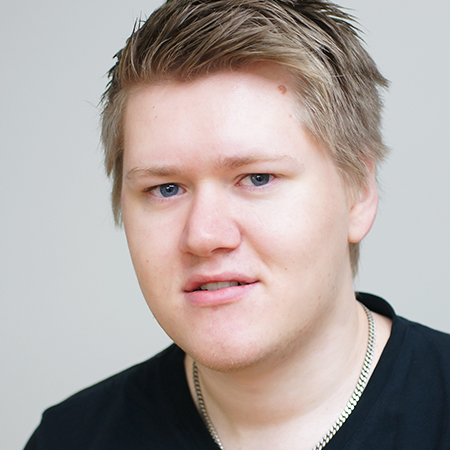
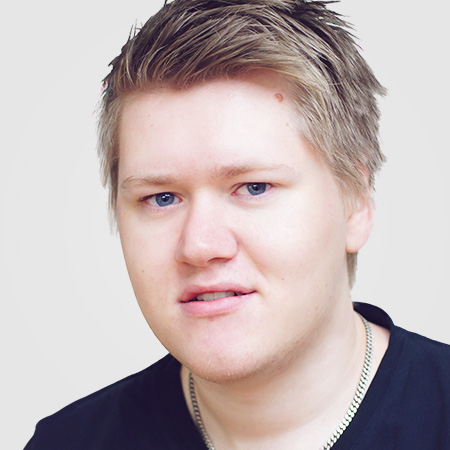
about us photos

diff --git a/site/content/about.html b/site/content/about.html
@@ -39,12 +39,16 @@
                 <article class="team-member team-member--daniel">
                     <div class="team-member__photoframe-wrapper">
                         <div class="team-member__photoframe">
-                            <img src="/img/about/photos/daniel.jpg">
+                            <img src="/img/about/photos/daniel.jpg" class="team-member__photo">
+                            <img src="/img/about/photos/daniel_hover.jpg" class="team-member__photo team-member__photo--hover">
+                            <div class="team-member__contact">
+                                <a href="mailto:daniel@agigen.se" class="team-member__contact__item team-member__contact__item--email">daniel@agigen.se</a>
+                                <a href="tel:+46733445315" class="team-member__contact__item team-member__contact__item--phone">+46 733 44 5315</a>
+                            </div>
                         </div>
                     </div>
                     <h3 class="team-member__name">
                         <span>Daniel Mauno Pettersson</span>
-                        <img src="/img/about/signatures/daniel_200_100.svg">
                     </h3>
                     <h4 class="team-member__title">CEO & Co-Founder</h4>
                 </article>
@@ -53,12 +57,16 @@
                 <article class="team-member team-member--johan">
                     <div class="team-member__photoframe-wrapper">
                         <div class="team-member__photoframe">
-                            <img src="/img/about/photos/johan.jpg">
+                            <img src="/img/about/photos/johan.jpg" class="team-member__photo">
+                            <img src="/img/about/photos/johan_hover.jpg" class="team-member__photo team-member__photo--hover">
+                            <div class="team-member__contact">
+                                <a href="mailto:johan@agigen.se" class="team-member__contact__item team-member__contact__item--email">johan@agigen.se</a>
+                                <a href="tel:+46768600986" class="team-member__contact__item team-member__contact__item--phone">+46 46 768 600 986</a>
+                            </div>
                         </div>
                     </div>
                     <h3 class="team-member__name">
                         <span>Johan Steffner</span>
-                        <img src="/img/about/signatures/johan_260_100.svg">
                     </h3>
                     <h4 class="team-member__title">Developer & Co-Founder</h4>
                 </article>
@@ -67,12 +75,16 @@
                 <article class="team-member team-member--jonas">
                     <div class="team-member__photoframe-wrapper">
                         <div class="team-member__photoframe">
-                            <img src="/img/about/photos/jonas.jpg">
+                            <img src="/img/about/photos/jonas.jpg" class="team-member__photo">
+                            <img src="/img/about/photos/jonas_hover.jpg" class="team-member__photo team-member__photo--hover">
+                            <div class="team-member__contact">
+                                <a href="mailto:jonas@agigen.se" class="team-member__contact__item team-member__contact__item--email">jonas@agigen.se</a>
+                                <a href="tel:+46708714741" class="team-member__contact__item team-member__contact__item--phone">+46 708 714 741</a>
+                            </div>
                         </div>
                     </div>
                     <h3 class="team-member__name">
                         <span>Jonas Suijkerbuijk</span>
-                        <img src="/img/about/signatures/jonas_280_200.svg">
                     </h3>
                     <h4 class="team-member__title">Co-Founder</h4>
                 </article>
@@ -81,12 +93,16 @@
                 <article class="team-member team-member--miriam">
                     <div class="team-member__photoframe-wrapper">
                         <div class="team-member__photoframe">
-                            <img src="/img/about/photos/miriam.jpg">
+                            <img src="/img/about/photos/miriam.jpg" class="team-member__photo">
+                            <img src="/img/about/photos/miriam_hover.jpg" class="team-member__photo team-member__photo--hover">
+                            <div class="team-member__contact">
+                                <a href="mailto:miriam@agigen.se" class="team-member__contact__item team-member__contact__item--email">miriam@agigen.se</a>
+                                <a href="tel:+46727192600" class="team-member__contact__item team-member__contact__item--phone">+46 72-719 26 00</a>
+                            </div>
                         </div>
                     </div>
                     <h3 class="team-member__name">
                         <span>Miriam Larsson</span>
-                        <img src="/img/about/photos/miriam.jpg">
                     </h3>
                     <h4 class="team-member__title">Project lead & developer</h4>
                 </article>
@@ -95,12 +111,15 @@
                 <article class="team-member team-member--kiwi">
                     <div class="team-member__photoframe-wrapper">
                         <div class="team-member__photoframe">
-                            <img src="/img/about/photos/kiwi.jpg">
+                            <img src="/img/about/photos/kiwi.jpg" class="team-member__photo">
+                            <img src="/img/about/photos/kiwi_hover.jpg" class="team-member__photo team-member__photo--hover">
+                            <div class="team-member__contact">
+                                <a href="mailto:kiwi@agigen.se" class="team-member__contact__item team-member__contact__item--email">kiwi@agigen.se</a>
+                            </div>
                         </div>
                     </div>
                     <h3 class="team-member__name">
                         <span>Kiwi Holmberg</span>
-                        <img src="/img/about/signatures/kiwi_120_100.svg">
                     </h3>
                     <h4 class="team-member__title">Developer</h4>
                 </article>
@@ -109,12 +128,15 @@
                 <article class="team-member team-member--oscar">
                     <div class="team-member__photoframe-wrapper">
                         <div class="team-member__photoframe">
-                            <img src="/img/about/photos/oscar.jpg">
+                            <img src="/img/about/photos/oscar.jpg" class="team-member__photo">
+                            <img src="/img/about/photos/oscar_hover.jpg" class="team-member__photo team-member__photo--hover">
+                            <div class="team-member__contact">
+                                <a href="mailto:oscar@agigen.se" class="team-member__contact__item team-member__contact__item--email">oscar@agigen.se</a>
+                            </div>
                         </div>
                     </div>
                     <h3 class="team-member__name">
                         <span>Oscar Ekholm</span>
-                        <img src="/img/about/signatures/oscar_280_100.svg">
                     </h3>
                     <h4 class="team-member__title">Developer</h4>
                 </article>
@@ -125,11 +147,13 @@
                         <div class="team-member__photoframe">
                             <img src="/img/about/photos/viktor.jpg" class="team-member__photo">
                             <img src="/img/about/photos/viktor_hover.jpg" class="team-member__photo team-member__photo--hover">
+                            <div class="team-member__contact">
+                                <a href="mailto:viktor@agigen.se" class="team-member__contact__item team-member__contact__item--email">viktor@agigen.se</a>
+                            </div>
                         </div>
                     </div>
                     <h3 class="team-member__name">
                         <span>Viktor Gardart</span>
-                        <img src="/img/about/signatures/viktor_240_100.svg">
                     </h3>
                     <h4 class="team-member__title">Developer</h4>
                 </article>
@@ -138,12 +162,15 @@
                 <article class="team-member team-member--erika">
                     <div class="team-member__photoframe-wrapper">
                         <div class="team-member__photoframe">
-                            <img src="/img/about/photos/erika.jpg">
+                            <img src="/img/about/photos/erika.jpg" class="team-member__photo">
+                            <img src="/img/about/photos/erika_hover.jpg" class="team-member__photo team-member__photo--hover">
+                            <div class="team-member__contact">
+                                <a href="mailto:erika.henell@agigen.se" class="team-member__contact__item team-member__contact__item--email">erika@agigen.se</a>
+                            </div>
                         </div>
                     </div>
                     <h3 class="team-member__name">
                         <span>Erika Henell</span>
-                        <img src="/img/about/signatures/erika_140_100.svg">
                     </h3>
                     <h4 class="team-member__title">Designer</h4>
                 </article>
@@ -152,12 +179,15 @@
                 <article class="team-member team-member--max">
                     <div class="team-member__photoframe-wrapper">
                         <div class="team-member__photoframe">
-                            <img src="/img/about/photos/max.jpg">
+                            <img src="/img/about/photos/max.jpg" class="team-member__photo">
+                            <img src="/img/about/photos/max_hover.jpg" class="team-member__photo team-member__photo--hover">
+                            <div class="team-member__contact">
+                                <a href="mailto:max@agigen.se" class="team-member__contact__item team-member__contact__item--email">max@agigen.se</a>
+                            </div>
                         </div>
                     </div>
                     <h3 class="team-member__name">
                         <span>Max Delic</span>
-                        <img src="/img/about/signatures/max_220_100.svg">
                     </h3>
                     <h4 class="team-member__title">Designer</h4>
                 </article>

diff --git a/sass/pages/_about.scss b/sass/pages/_about.scss
@@ -156,6 +156,40 @@
         @include transform(rotate(0deg));
     }
 
+
+    &__contact {
+        position: absolute;
+        bottom: 0;
+        left: 0;
+        opacity: 0;
+        text-align: center;
+        padding: 20px;
+        z-index: 30;
+        width: 100%;
+        @include transform(translateY(30px));
+        @include transition(opacity 300ms $ease-out-quad 200ms, transform 300ms $ease-out-quad 200ms);
+        &__item {
+            width: 40px;
+            height: 40px;
+            border-radius: 50%;
+            display: inline-block;
+            margin: 0 10px;
+            background: white;
+            font: 1px; color: white;
+            overflow: hidden;
+            text-align: left;
+            text-indent: -1000px;
+            &:hover {
+                background: #f0f0f0;
+            }
+        }
+    }
+
+    &:hover &__contact {
+        opacity: 1;
+        @include transform(translateY(0));
+    }
+
     &__name {
         @extend .epsilon;
         text-align: center;
